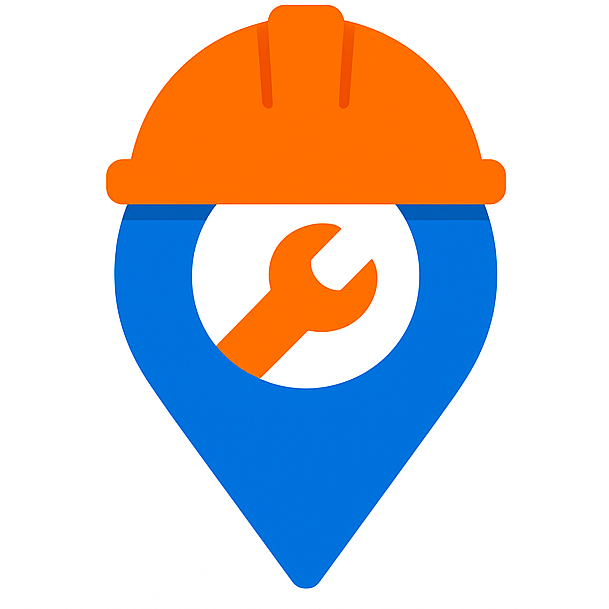
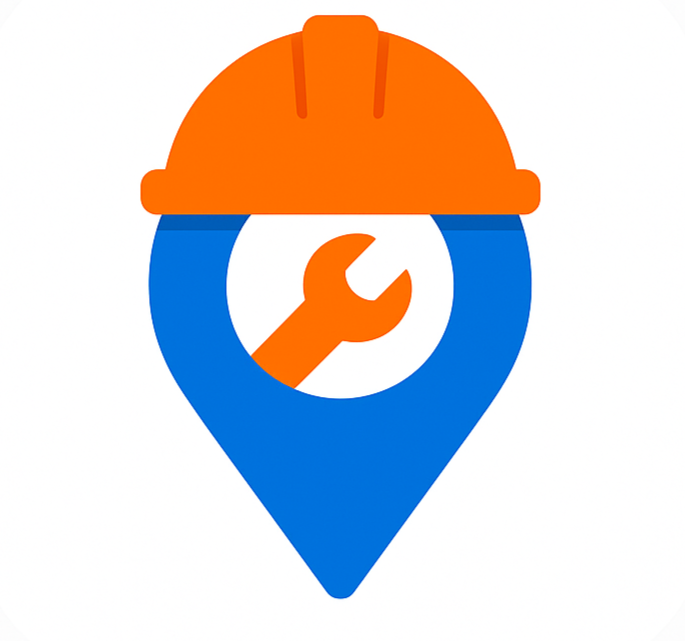
improvisations final

Changed region(s): [[0.156, 0.0, 0.8424, 0.9672], [0.4368, 0.3744, 0.4992, 0.468], [0.3744, 0.468, 0.4368, 0.5304]]

diff --git a/supabase/functions/approve-change-request/index.ts b/supabase/functions/approve-change-request/index.ts
@@ -1,0 +1,101 @@
+import { serve } from 'https://deno.land/std@0.177.0/http/server.ts';
+import { createClient } from 'https://esm.sh/@supabase/supabase-js@2';
+import { corsHeaders } from '../_shared/cors.ts';
+
+serve(async (req) => {
+  if (req.method === 'OPTIONS') {
+    return new Response('ok', { headers: corsHeaders });
+  }
+
+  try {
+    const supabaseAdmin = createClient(
+      Deno.env.get('SUPABASE_URL') ?? '',
+      Deno.env.get('SUPABASE_SERVICE_ROLE_KEY') ?? ''
+    );
+
+    const { requestId } = await req.json();
+    if (!requestId) throw new Error('Request ID is required.');
+
+    // 1. Fetch the change request
+    const { data: request, error: requestError } = await supabaseAdmin
+      .from('change_requests')
+      .select('*')
+      .eq('id', requestId)
+      .single();
+
+    if (requestError || !request) {
+      throw new Error(requestError?.message || 'Change request not found.');
+    }
+
+    if (request.status !== 'pending') {
+      throw new Error('This request has already been processed.');
+    }
+
+    const { user_id, field, requested_value } = request;
+
+    // 2. Update auth table if necessary (e.g., for email)
+    if (field === 'email') {
+      const { error: authError } = await supabaseAdmin.auth.admin.updateUserById(
+        user_id,
+        { email: requested_value }
+      );
+      if (authError) throw new Error(`Auth update failed: ${authError.message}`);
+    }
+    
+    // If you add mobile number changes, you would handle it here too.
+    // if (field === 'mobile_number') { ... }
+
+    // 3. Determine if user is a worker or general user and update the correct table
+    const { data: worker } = await supabaseAdmin
+      .from('workers')
+      .select('id')
+      .eq('user_id', user_id)
+      .single();
+      
+    const targetTable = worker ? 'workers' : 'profiles';
+    const idColumn = worker ? 'user_id' : 'id';
+    
+    // In the workers table, some column names might be different (e.g., 'full_name' vs 'name')
+    // This maps the generic 'field' from the request to the correct column name in the target table.
+    const columnMapping: { [key: string]: string } = {
+        name: 'full_name', // `profiles` and `workers` both use `full_name`
+        email: 'email',
+        mobile: 'mobile_number', // `profiles` has 'mobile', `workers` has 'mobile_number'
+        location_address: 'location_address',
+        service_category: 'service_category',
+        service_subcategories: 'service_subcategories'
+    };
+    
+    const targetColumn = columnMapping[field] || field;
+
+    const { error: updateError } = await supabaseAdmin
+      .from(targetTable)
+      .update({ [targetColumn]: requested_value })
+      .eq(idColumn, user_id);
+
+    if (updateError) {
+      throw new Error(`Failed to update ${targetTable}: ${updateError.message}`);
+    }
+
+    // 4. Mark request as approved
+    const { error: statusError } = await supabaseAdmin
+      .from('change_requests')
+      .update({ status: 'approved', admin_response: 'Approved and applied.' })
+      .eq('id', requestId);
+
+    if (statusError) {
+      // The main change was applied, but the status update failed. Log this.
+      console.error(`CRITICAL: Change for request ${requestId} was applied, but status update failed:`, statusError.message);
+    }
+
+    return new Response(JSON.stringify({ success: true }), {
+      headers: { ...corsHeaders, 'Content-Type': 'application/json' },
+    });
+
+  } catch (error) {
+    return new Response(JSON.stringify({ error: error.message }), {
+      headers: { ...corsHeaders, 'Content-Type': 'application/json' },
+      status: 400,
+    });
+  }
+}); 

diff --git a/src/admin/pages/ChangeRequests.tsx b/src/admin/pages/ChangeRequests.tsx
@@ -44,11 +44,23 @@ export default function ChangeRequests() {
     
     // Fetch user details for each request
     const requestsWithDetails = await Promise.all((data || []).map(async (req: ChangeRequest) => {
-      const { data: userData } = await supabase
+      // Try fetching from profiles first
+      let { data: userData } = await supabase
         .from('profiles')
         .select('full_name, email')
         .eq('id', req.user_id)
         .single();
+      
+      // If not in profiles, try workers
+      if (!userData) {
+        let { data: workerData } = await supabase
+          .from('workers')
+          .select('full_name, email')
+          .eq('user_id', req.user_id)
+          .single();
+        userData = workerData;
+      }
+      
       return {
         ...req,
         user_name: userData?.full_name || 'Unknown User',
@@ -67,42 +79,13 @@ export default function ChangeRequests() {
 
   const handleApprove = async (req: ChangeRequest) => {
     try {
-      // 1. Determine if the user is a worker or a general user
-      const { data: workerData } = await supabase
-        .from('workers')
-        .select('id')
-        .eq('user_id', req.user_id)
-        .single();
+      // Invoke the new edge function to handle the approval
+      const { data, error } = await supabase.functions.invoke('approve-change-request', {
+        body: { requestId: req.id }
+      });
 
-      const isWorker = !!workerData;
-      const targetTable = isWorker ? 'workers' : 'profiles';
-      const idColumn = isWorker ? 'user_id' : 'id';
-
-      // 2. Handle special cases like email change
-      if (req.field === 'email') {
-        const { error: authError } = await supabase.auth.admin.updateUserById(
-          req.user_id,
-          { email: req.requested_value }
-        );
-        if (authError) throw new Error(`Failed to update auth email: ${authError.message}`);
-      }
-
-      // 3. Update the appropriate table
-      const { error: updateError } = await supabase
-        .from(targetTable)
-        .update({ [req.field]: req.requested_value })
-        .eq(idColumn, req.user_id);
-
-      if (updateError) throw updateError;
-      
-      // 4. Mark request as approved
-      await supabase
-        .from('change_requests')
-        .update({ 
-          status: 'approved', 
-          admin_response: 'Approved and profile updated.' 
-        })
-        .eq('id', req.id);
+      if (error) throw error;
+      if (data.error) throw new Error(data.error);
       
       toast({ title: 'Request Approved', description: `The ${req.field} has been updated successfully.` });
       fetchRequests(); // Refresh the list

diff --git a/src/components/Auth/WorkerSignUp.tsx b/src/components/Auth/WorkerSignUp.tsx
@@ -7,7 +7,7 @@ import { RadioGroup, RadioGroupItem } from "@/components/UI/radio-group";
 import { useToast } from "@/hooks/use-toast";
 import { useAuth } from '@/contexts/AuthContext';
 import { z } from 'zod';
-import { Eye, EyeOff, Mail, Lock, User, Phone, MapPin, Building } from 'lucide-react';
+import { Eye, EyeOff, Mail, Lock, User, Phone, MapPin, Building, X } from 'lucide-react';
 import { supabase } from '@/integrations/supabase/client';
 import { Checkbox } from '@/components/UI/checkbox';
 

diff --git a/index.html b/index.html
@@ -2,7 +2,7 @@
 <html lang="en">
   <head>
     <meta charset="UTF-8" />
-    <link rel="icon" type="image/png" href="/WorkKar icon2.png" />
+    <link rel="icon" type="image/png" href="/WorkKar icon3.png" />
     <meta name="viewport" content="width=device-width, initial-scale=1.0" />
     <title>WorkKar</title>
     <meta name="description" content="Find local service professionals with WorkKar." />

diff --git a/supabase/functions/_shared/cors.ts b/supabase/functions/_shared/cors.ts
@@ -1,0 +1,4 @@
+export const corsHeaders = {
+  'Access-Control-Allow-Origin': '*',
+  'Access-Control-Allow-Headers': 'authorization, x-client-info, apikey, content-type',
+}; 

diff --git a/README.md b/README.md
@@ -20,6 +20,9 @@
 -   **Responsive Design**: Fully functional and beautiful on both desktop and mobile devices.
 -   **Light & Dark Mode**: Switch between themes for your viewing comfort.
 -   **Worker Sign-up**: A streamlined form for new professionals to list their services.
+-   **Worker Reporting**: Users can report workers for inappropriate behavior, spam, or other reasons.
+-   **Admin Change Requests**: Users can request profile changes (e.g., email, category); admins can approve or reject these securely.
+-   **Dynamic Categories & Subcategories**: Categories and subcategories are managed in the database and fetched live, with multi-select and "Select All" for subcategories.
 
 ---
 
@@ -31,6 +34,7 @@
 -   **UI Components**: [shadcn/ui](https://ui.shadcn.com/)
 -   **Mapping**: [Leaflet](https://leafletjs.com/) & [React Leaflet](https://react-leaflet.js.org/)
 -   **Backend & DB**: [Supabase](https.supabase.io/) (for database storage)
+-   **Supabase Edge Functions**: For secure admin actions (e.g., approving change requests).
 -   **Linting/Formatting**: ESLint & Prettier
 
 ---
@@ -60,7 +64,7 @@ Follow these instructions to set up and run the project locally.
 
 3.  **Set up Supabase:**
     -   Log in to your Supabase account and create a new project.
-    -   Inside your project, go to the **SQL Editor** and run the SQL script located in `supabase/migrations/` to create the necessary tables (`workers`, `profiles`).
+    -   Inside your project, go to the **SQL Editor** and run the SQL script located in `supabase/migrations/` to create the necessary tables (`workers`, `profiles`, etc.).
     -   Navigate to **Project Settings > API**.
     -   Find your **Project URL** and `anon` public key.
     -   Create a new file named `WorkKar.env` by copying the example. Add your Supabase credentials to it:
@@ -68,7 +72,18 @@ Follow these instructions to set up and run the project locally.
         VITE_SUPABASE_URL=YOUR_SUPABASE_URL
         VITE_SUPABASE_ANON_KEY=YOUR_SUPABASE_ANON_KEY
         ```
-    > **Note:** The project's sign-up form inserts data directly into the database and does not use Supabase Auth. Make sure your Row Level Security (RLS) policies on the `workers` and `profiles` tables allow for public inserts if you have RLS enabled.
+    -   **Deploy Edge Functions for Admin Actions:**
+        -   Install the Supabase CLI if you haven't already:  
+            `npm install -g supabase`
+        -   Log in:  
+            `supabase login`
+        -   Deploy the approval function:  
+            `supabase functions deploy approve-change-request`
+        -   Make sure your Supabase project has the `SUPABASE_SERVICE_ROLE_KEY` set for secure function access.
+
+> **Note:** The admin panel's "Approve" button for change requests will not work unless the edge function is deployed.
+
+> **Note:** The project's sign-up form inserts data directly into the database and does not use Supabase Auth. Make sure your Row Level Security (RLS) policies on the `workers` and `profiles` tables allow for public inserts if you have RLS enabled.
 
 4.  **Run the development server:**
     ```sh
@@ -78,6 +93,14 @@ Follow these instructions to set up and run the project locally.
 The application should now be running on [http://localhost:5173](http://localhost:5173).
 
 ---
+
+## 🔒 Security Notes
+
+-   **Admin Actions:** Changing sensitive user data (like email) is only possible via secure Supabase Edge Functions, not from the client/browser.
+-   **RLS Policies:** Ensure your Row Level Security (RLS) policies allow the necessary operations for your app to function (see Supabase docs).
+
+---
+
 ## 🧹 Codebase Cleanup
 
 The codebase has been cleaned to remove all mentions of placeholder names and has been standardized to use the "WorkKar" branding and iconography.
